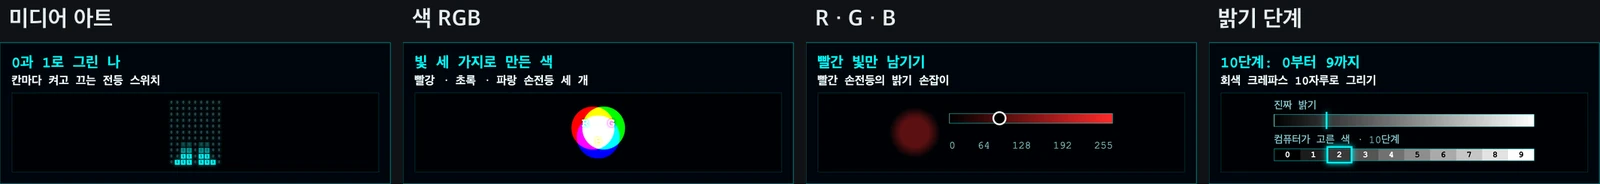
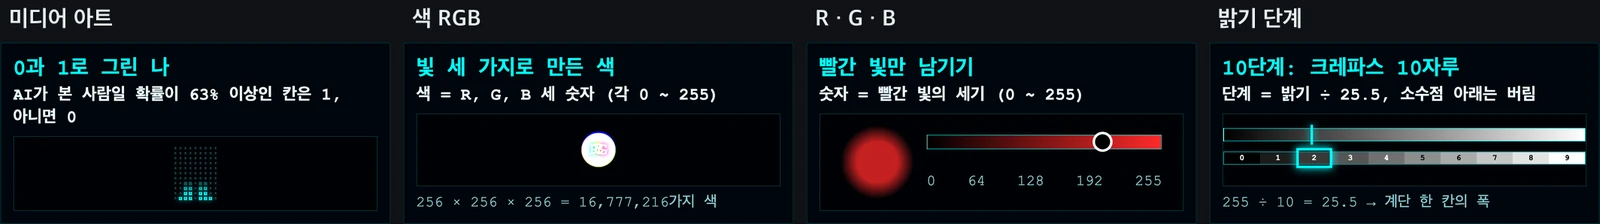
docs: describe the rule card, the marked cell and the calculating magnifier
README, CLAUDE.md, both changelogs and the project site now describe the
narrower side column, the rule card (title, one-line rule, picture), the
marked cell's live calculation under the levers, the magnifier's caption and
weights, and the graphs for brightness and contrast. The screenshots that
show the side column and the magnifier are retaken, and a new animation
shows the lever changing the marked cell's calculation.

diff --git a/site/index.html b/site/index.html
@@ -190,18 +190,18 @@
           <figure class="shot">
             <img
               src="images/layout.webp"
-              alt="화면 구성: 1 작품 화면, 2 비유 카드, 3 버튼과 레버, 4 설명 카드"
-              data-alt-ko="화면 구성: 1 작품 화면, 2 비유 카드, 3 버튼과 레버, 4 설명 카드"
-              data-alt-en="Screen layout: 1 artwork, 2 metaphor card, 3 buttons and levers, 4 explanation card"
+              alt="화면 구성: 1 작품 화면, 2 규칙 카드, 3 버튼과 레버, 4 표시한 칸"
+              data-alt-ko="화면 구성: 1 작품 화면, 2 규칙 카드, 3 버튼과 레버, 4 표시한 칸"
+              data-alt-en="Screen layout: 1 artwork, 2 rule card, 3 buttons and levers, 4 marked cell"
               loading="lazy"
             />
             <figcaption>
               <span data-l="ko"
-                >① 작품 화면 ② 비유 · 애니메이션 ③ 버튼과 레버 (화면 세로 가운데) ④ 설명 · 용어 ·
-                지금 화면</span
+                >① 작품 화면 (화면 높이를 가득) ② 규칙 카드: 이름 · 계산 한 줄 · 그림 ③ 버튼과 레버
+                (화면 세로 가운데) ④ 표시한 칸의 계산</span
               ><span data-l="en"
-                >① Artwork ② Metaphor and animation ③ Buttons and levers (at mid height) ④
-                Explanation, terms and live size</span
+                >① Artwork (full height) ② Rule card: name, one-line rule, picture ③ Buttons and
+                levers (at mid height) ④ The marked cell's calculation</span
               >
             </figcaption>
           </figure>
@@ -454,33 +454,57 @@
               <h3 data-l="en">Magnifier</h3>
               <img
                 src="images/magnifier.webp"
-                alt="화면을 누르고 끌면 따라오는 3배 돋보기"
-                data-alt-ko="화면을 누르고 끌면 따라오는 3배 돋보기"
-                data-alt-en="A 3× lens following the finger across the picture"
+                alt="화면을 누르고 끌면 따라오며 그 칸의 계산을 적는 3배 돋보기"
+                data-alt-ko="화면을 누르고 끌면 따라오며 그 칸의 계산을 적는 3배 돋보기"
+                data-alt-en="A 3× lens following the finger and writing that cell's calculation"
                 loading="lazy"
               />
               <p data-l="ko">
-                작품 화면을 꾹 누르고 있으면 손가락 위에 3배 돋보기가 떠서 작은 숫자도 읽힙니다.
+                작품 화면을 꾹 누르고 있으면 손가락 위에 3배 돋보기가 떠서 작은 숫자도 읽히고, 누른
+                칸의 계산이 옆에 적힙니다.
               </p>
               <p data-l="en">
-                Press and hold the picture and a 3× lens floats above your finger to read tiny
-                numbers.
+                Press and hold the picture: a 3× lens floats above your finger and writes the
+                pressed cell's calculation beside it.
               </p>
             </div>
             <div class="panel">
-              <h3 data-l="ko">설명 카드</h3>
-              <h3 data-l="en">Explanation cards</h3>
+              <h3 data-l="ko">규칙 카드</h3>
+              <h3 data-l="en">Rule cards</h3>
               <img
                 src="images/math-cards.webp"
-                alt="밝기·대비·블러·선명 설명 카드"
-                data-alt-ko="밝기·대비·블러·선명 설명 카드"
-                data-alt-en="Cards for brighten, contrast, blur and sharpen"
+                alt="밝기·대비·블러·선명 규칙 카드"
+                data-alt-ko="밝기·대비·블러·선명 규칙 카드"
+                data-alt-en="Rule cards for brighten, contrast, blur and sharpen"
                 loading="lazy"
               />
-              <p data-l="ko">긴 수식 대신 한 줄 공식과 3×3 숫자 예시로 감을 잡습니다.</p>
-              <p data-l="en">A one-line formula and a 3×3 example instead of long math.</p>
+              <p data-l="ko">
+                계산 한 줄과 그림 하나: 밝기와 대비는 일차함수 그래프, 블러와 선명은 3×3 예시입니다.
+              </p>
+              <p data-l="en">
+                One line of maths and one picture: graphs of linear functions for brighten and
+                contrast, a 3×3 example for blur and sharpen.
+              </p>
             </div>
           </div>
+          <figure class="shot">
+            <img
+              src="images/marked-cell.webp"
+              alt="레버를 움직이면 표시한 칸의 계산과 그래프가 같이 바뀌는 모습"
+              data-alt-ko="레버를 움직이면 표시한 칸의 계산과 그래프가 같이 바뀌는 모습"
+              data-alt-en="Moving the lever changes the marked cell's calculation and the graph"
+              loading="lazy"
+            />
+            <figcaption>
+              <span data-l="ko"
+                >네모 친 칸의 실제 숫자가 규칙에 들어갑니다. 레버를 움직이면 계산이 같이 바뀌고,
+                화면을 누르면 누른 칸으로 옮겨 갑니다.</span
+              ><span data-l="en"
+                >The outlined cell's real numbers go into the rule. Move the lever and the
+                calculation changes; press the picture to move the mark.</span
+              >
+            </figcaption>
+          </figure>
           <figure class="shot">
             <img
               src="images/controls.webp"

diff --git a/README.md b/README.md
@@ -23,14 +23,14 @@
 
 ## 화면 구성
 
-![화면 구성: 1 작품 화면, 2 비유·애니메이션 카드, 3 버튼과 레버, 4 설명 카드](docs/images/readme/layout.webp)
+![화면 구성: 1 작품 화면, 2 규칙 카드, 3 버튼과 레버, 4 표시한 칸](docs/images/readme/layout.webp)
 
 그림의 번호는 아래 목록의 번호와 같습니다.
 
-1. **작품 화면**: 모든 모드가 같은 자리에 카메라 화면 전체를 칸으로 맞춰 그립니다. 누르고 있으면 돋보기가 뜹니다.
-2. **비유 · 애니메이션**: 지금 화면의 원리를 그림 하나로 보여줍니다.
-3. **버튼과 레버**: 모드 버튼, 세부 버튼, 레버 두 개가 화면 세로 정가운데에 모여 있습니다. 모드를 바꿔도 위치는 그대로입니다.
-4. **설명 · 용어 · 지금 화면**: 한 줄 설명, 용어, 지금 화면의 칸 수, 화면이 만들어지는 순서를 보여줍니다.
+1. **작품 화면**: 4:3 카메라 화면이 화면 높이를 가득 채웁니다. 모든 모드가 같은 자리에 그리고, 계산하는 칸 하나에 네모를 칩니다. 누르고 있으면 돋보기가 뜹니다.
+2. **규칙 카드**: 지금 화면의 이름, 계산 규칙 한 줄, 그림 하나를 보여줍니다.
+3. **버튼과 레버**: 모드 버튼, 세부 버튼, 레버 두 개가 화면 세로 가운데에 모여 있습니다. 모드를 바꿔도 위치는 그대로입니다.
+4. **표시한 칸**: 네모 친 칸의 숫자를 규칙에 넣은 계산과 지금 화면의 칸 수를 보여줍니다.
 
 ## 모드
 
@@ -77,9 +77,9 @@
 
 ![같은 칸의 원본 숫자와 계산 결과](docs/images/readme/math-numbers.webp)
 
-설명 카드는 한 줄 공식과 3×3 예시로 계산을 보여줍니다. 예시는 화면과 같은 계산 함수를 쓰고, 레버를 움직이면 같이 바뀝니다.
+규칙 카드는 계산을 한 줄 공식으로 적고 레버 값을 그대로 넣습니다. 밝기와 대비는 칸 하나만 보고 계산하므로 일차함수 그래프(`y = x + 60`, `y = 2(x − 128) + 128`)로, 블러와 선명은 주변 칸까지 보므로 3×3 예시와 무게로 보여줍니다. 그래프와 예시는 화면과 같은 계산 함수를 씁니다.
 
-![밝기 · 대비 · 블러 · 선명 설명 카드](docs/images/readme/math-cards.webp)
+![밝기 · 대비 · 블러 · 선명 규칙 카드](docs/images/readme/math-cards.webp)
 
 ## 레버
 
@@ -94,15 +94,23 @@
 
 ## 돋보기
 
-작품 화면을 누르고 있으면 손가락 위에 3배 돋보기가 떠서 작은 숫자도 읽을 수 있습니다. 누르고 있는 동안 손가락을 따라 움직이고, 떼면 사라집니다.
+작품 화면을 누르고 있으면 손가락 위에 3배 돋보기가 떠서 작은 숫자도 읽을 수 있습니다. 돋보기는 손가락 아래 칸에 네모를 치고, 그 칸의 계산을 돋보기 옆에 적습니다. 블러와 선명에서는 함께 평균 내는 주변 칸과 무게(×1 · ×2 · ×4)도 표시합니다. 누르고 있는 동안 손가락을 따라 움직이고, 떼면 사라집니다. 마지막으로 누른 칸은 표시한 칸으로 남습니다.
 
-![누르고 끌면 돋보기가 따라오고, 떼면 사라지는 모습](docs/images/readme/magnifier.webp)
+![누르고 끌면 돋보기가 따라오며 그 칸의 계산을 적는 모습](docs/images/readme/magnifier.webp)
 
-## 설명 카드
+## 설명
 
-수식 대신 비유와 짧은 애니메이션으로 원리를 보여줍니다. 오래 읽지 않아도 감으로 익힐 수 있게 문장은 한 줄로 줄였습니다.
+여러 나이의 관람객이 짧게 머무는 전시라서, 처음 화면에는 꼭 필요한 것만 두고 수학은 관람객이 손을 대는 만큼 더 보여줍니다.
 
-![미디어 아트 · 색 RGB · R · 밝기 단계 설명 카드](docs/images/readme/cards.webp)
+- **한눈에 · 규칙 카드**: 이름, 계산 규칙 한 줄, 그림 하나만 둡니다. 용어 칩과 긴 문장은 없습니다.
+- **내 숫자로 · 표시한 칸**: 네모 친 칸의 실제 숫자를 규칙에 넣은 계산을 레버 바로 아래에 보여줍니다. 레버를 움직이면 계산이 같이 바뀝니다.
+- **누르면 · 돋보기**: 누른 칸의 계산이 손가락 옆에 뜹니다.
+
+![미디어 아트 · 색 RGB · R · 밝기 단계 규칙 카드](docs/images/readme/cards.webp)
+
+![레버를 움직이면 표시한 칸의 계산과 그래프가 같이 바뀌는 모습](docs/images/readme/marked-cell.webp)
+
+미디어 아트에서는 AI가 칸마다 계산한 사람일 확률이 63% 이상이면 1이 됩니다. 표시한 칸 자리에는 화면에서 1인 칸의 비율이, 돋보기에는 누른 칸의 확률이 나옵니다.
 
 ## 조작
 
@@ -113,7 +121,7 @@
 | 밝기 단계 고르기 | `2단계` / `10단계` / `256단계` | |
 | 계산 고르기 · 풀기 | `밝기` / `대비` / `블러` / `선명` (한 번 더 누르면 원본) | |
 | 칸 크기 · 세기 바꾸기 | 레버 | |
-| 크게 보기 | 작품 화면을 꾹 누르기 | |
+| 크게 보기 · 칸 계산 보기 | 작품 화면을 꾹 누르기 | |
 | 한국어 / English | 버튼 묶음 첫 줄의 `한국어` / `English` | |
 | 종료 | | `Esc` |
 
@@ -131,7 +139,7 @@ npm test
 npm run lint
 ```
 
-- **문구 고치기**: 설명 카드 문구는 [src/renderer/data/modeExplanations.js](src/renderer/data/modeExplanations.js), 모드 · 세부 버튼 · 레버는 [src/renderer/data/modeOptions.js](src/renderer/data/modeOptions.js)에 있습니다.
+- **문구 고치기**: 규칙 카드 문구는 [src/renderer/data/modeExplanations.js](src/renderer/data/modeExplanations.js), 표시한 칸과 돋보기의 계산식은 [src/renderer/core/cellReadout.js](src/renderer/core/cellReadout.js), 모드 · 세부 버튼 · 레버는 [src/renderer/data/modeOptions.js](src/renderer/data/modeOptions.js)에 있습니다.
 - **칸 크기**: 처음 크기는 [src/renderer/config.js](src/renderer/config.js)의 `FONT_SIZE`(`24px`), 레버의 단계는 `CELL_SIZES`입니다.
 - **카메라 해상도**: [src/renderer/core/camera.js](src/renderer/core/camera.js)에서 `640×480`을 요청합니다.
 - **숨은 모드**: 키보드 `5`~`9`는 예전 모드(부산 수학문화관, 픽셀 수치, RGB, 8비트 회색, 4비트 컬러)입니다.
@@ -146,7 +154,8 @@ npm run lint
 | `src/renderer/core/frameLoop.js` | 매 프레임 카메라를 칸으로 나눠 모드별로 그림 |
 | `src/renderer/core/channelOverlay.js` | WebGL로 칸 색과 RGB 레이어를 그림 |
 | `src/renderer/core/imageMath.js` | 수학 처리 계산(밝기 · 대비 · 가우시안 블러 · 선명) |
+| `src/renderer/core/cellReadout.js` | 표시한 칸 하나를 다시 읽어 계산식으로 적음 |
 | `src/renderer/modes/` | 모드별 칸 · 숫자 그리기와 RGB 전환 애니메이션 |
-| `src/renderer/ui/` | 설명 카드, 애니메이션, 레버, 돋보기 |
+| `src/renderer/ui/` | 규칙 카드, 표시한 칸, 그림 · 그래프, 레버, 돋보기 |
 | `src/renderer/data/` | 모드 · 버튼 · 레버 규칙과 설명 문구 |
 | `site/`, `scripts/build-site.js` | 소개 사이트와 패치노트 페이지 |

diff --git a/CLAUDE.md b/CLAUDE.md
@@ -28,16 +28,17 @@ This is an Electron application called "Binary Media Art" that creates real-time
 2. **Multiple Visualization Modes** (touch buttons; keys 1-4, legacy modes on 5-9):
    - `original` (미디어 아트): Every cell is a bit: cells where segmentation found a person are `1` in the camera colour pulled toward cyan (bright ones glow), all other cells are a dim `0`; an empty room is a screen of zeros
    - `rgb` (색 RGB): The camera sampled into numbered pixel cells, drawn as additive WebGL R/G/B layers; each cell shows its 0-255 value for the selected light, or all three stacked values in the full colour once cells are 24px or larger. The mode button opens the full colour, R/G/B buttons split the layers apart (1.8s transition) and a second tap on the selected light returns to the full colour (`data/modeOptions.js`)
-   - `levels` (밝기 단계): The camera sampled into numbered pixel cells quantized to 2, 10 or 256 brightness steps; in 2단계 the black/white threshold (0-255) is set with a lever
-   - `math` (수학 처리): The camera as grey numbered cells with one calculation applied (`core/imageMath.js`): 밝기 adds, 대비 stretches around 128, 블러 is a Gaussian weighted average (3×3/5×5/7×7, Pascal-row weights, 3×3 = 1·2·4 ÷ 16), 선명 is an unsharp mask that adds back the difference from the 3×3 Gaussian average. Tapping the selected calculation again returns to the original numbers; the right lever sets its strength (`MATH_SLIDERS`). Its card shows a one-line formula and a 3×3 before → after example computed with the same functions (#39)
-   - Magnifier (`ui/magnifier.js`, #40): pressing the artwork shows a round lens with a fixed 3× view under the finger; it follows while held and hides on release. The frame loop's `onDrawn` hook lets it copy each frame before the WebGL buffer is presented. Only `#magnifierArea` (the artwork area) takes touches
+   - `levels` (밝기 단계): The camera sampled into numbered pixel cells quantized to 2, 10 or 256 brightness steps (from the same rounded 0-255 grey the math view shows: step = floor(grey × levels ÷ 255)); in 2단계 the black/white threshold (0-255) is set with a lever
+   - `math` (수학 처리): The camera as grey numbered cells with one calculation applied (`core/imageMath.js`): 밝기 adds, 대비 stretches around 128, 블러 is a Gaussian weighted average (3×3/5×5/7×7, Pascal-row weights, 3×3 = 1·2·4 ÷ 16), 선명 is an unsharp mask that adds back the difference from the 3×3 Gaussian average. Tapping the selected calculation again returns to the original numbers; the right lever sets its strength (`MATH_SLIDERS`). Its card writes the calculation as a formula with the lever's value; 밝기 and 대비 draw it as a linear function graph (`y = x + 60`, `y = 2(x − 128) + 128`) with the marked cell as a dot, blur and sharpen keep a 3×3 before → after example labelled 예시. Both use the same functions as the screen (#39)
+   - Magnifier (`ui/magnifier.js`, #40): pressing the artwork shows a round lens with a fixed 3× view under the finger; it follows while held and hides on release. The lens outlines the cell under the finger, a caption on the far side of the lens from the finger writes that cell's calculation, and for blur and sharpen it outlines the averaged neighbours with their 3×3 weights. The frame loop's `onDrawn` hook lets it copy each frame before the WebGL buffer is presented. Only `#magnifierArea` (the artwork area) takes touches
+   - Marked cell (`ui/cellPicker.js`, `ui/cellCard.js`, `core/cellReadout.js`): one cell, outlined on the picture, starts mid-picture and moves to wherever the picture was last pressed. `readCell` reads it back from the frame that was just drawn (`onDrawn(frame)`) with the same buffers and functions, and the card under the controls writes its numbers into the view's rule (`(140 − 128) × 2 + 128 = 152`, `밝기 183 ÷ 25.5 = 7.1 → 7`); 미디어 아트 shows how much of the screen is 1 instead, and its lens caption shows the AI's person probability against the 63% threshold
    - 한국어 / English (`i18n.js`): a two-button switch in the control block's first row. Visible text in the data files is `{ ko, en }` pairs read through `t()`; switching redraws buttons, levers and the card but keeps the mode and lever values. The app starts in Korean; keep English captions short (~11 characters) so they fit the monospaced buttons
    - Pixels everywhere: there is no camera-quality view; cells too small for readable digits (< 7px font) stay plain colour
    - Levers (`ui/modeSliders.js`): a two-slot row under the option buttons. Left: cell size (`CELL_SIZES` in `config.js`, all modes, default 24px; floored at 24px in the combined RGB view so its three numbers always fit, `getCellSizeFloor`). Right: the view's own lever (`getModeSlider`), or a hint that keeps the slot in place
-   - All touch controls sit in one block at exactly mid screen height in the side column; the explanation is split into equal cards above and below it
-   - Every mode draws in the same fixed screen left of the side column (whole camera frame fitted to whole cells); `rgb` and `levels` skip segmentation
+   - All touch controls sit in one block in the middle of the screen height in the side column; the rule card above gets a little more height (1.4 : 1) than the marked-cell card below, and the block keeps one height in every mode
+   - Every mode draws in the same fixed screen left of the side column (whole camera frame fitted to whole cells); `rgb` and `levels` skip segmentation. The side column takes what a 4:3 picture leaves at full height (`--side-column-width`), so the visitor's picture is as large as the screen allows; below 900px of height the controls size with the screen
    - There are no F-key filter controls; touch buttons pick views and the two levers adjust them
-   - The side column's explanation card uses metaphors, a CSS animation and term chips per mode/option (`data/modeExplanations.js`, `ui/explainAnimations.js`)
+   - The rule card above the controls holds a title, the rule as one calculation with the right lever's value written in, one picture and at most one short fact per mode/option (`data/modeExplanations.js`, `ui/explainAnimations.js`, `ui/mathPanel.js`). Keep it to that: the marked-cell card and the magnifier carry the visitor's own numbers
 
 3. **Real-time Processing**: Uses TensorFlow.js BodyPix model for person segmentation with mirrored video display
 

diff --git a/CHANGELOG.md b/CHANGELOG.md
@@ -13,15 +13,19 @@
 - 칸 크기 레버: 모든 모드에서 픽셀 칸을 8~48px로 바꿀 수 있습니다. 처음 크기는 24px입니다.
 - 흑백 경계값 레버: 밝기 단계 2단계에서 0과 1을 가르는 기준(0~255)을 옮길 수 있습니다.
 - 한국어 / English: 버튼 묶음 첫 줄의 전환 버튼으로 모든 글자를 영어로 바꿀 수 있습니다. 보고 있던 모드와 레버 값은 그대로입니다.
-- 돋보기: 작품 화면을 꾹 누르고 있으면 손가락 위에 3배 확대경이 떠서 작은 숫자도 읽을 수 있습니다.
-- 수학 처리: 밝기(더하기) · 대비(곱하기) · 블러(가우시안 무게 평균) · 선명(차이 키우기) 중 하나를 골라 칸마다 숫자가 어떻게 바뀌는지 보여줍니다. 레버로 세기를 바꾸고, 설명 카드는 한 줄 공식과 3×3 예시로 계산을 보여줍니다.
-- 모드마다 비유와 짧은 애니메이션으로 원리를 보여주는 설명 카드를 추가했습니다.
+- 돋보기: 작품 화면을 꾹 누르고 있으면 손가락 위에 3배 확대경이 떠서 작은 숫자도 읽을 수 있습니다. 누른 칸에 네모를 치고 그 칸의 계산을 옆에 적으며, 블러와 선명에서는 함께 평균 내는 주변 칸과 무게도 보여줍니다.
+- 수학 처리: 밝기(더하기) · 대비(곱하기) · 블러(가우시안 무게 평균) · 선명(차이 키우기) 중 하나를 골라 칸마다 숫자가 어떻게 바뀌는지 보여줍니다. 레버로 세기를 바꾸고, 밝기와 대비는 일차함수 그래프(`y = x + 60`)로, 블러와 선명은 3×3 예시로 계산을 보여줍니다.
+- 규칙 카드: 모드마다 이름, 레버 값이 들어간 계산 규칙 한 줄, 그림 하나로 원리를 보여줍니다.
+- 표시한 칸: 작품 화면의 칸 하나에 네모를 치고, 그 칸의 실제 숫자를 규칙에 넣은 계산을 레버 바로 아래에 보여줍니다(`(140 − 128) × 2 + 128 = 152`). 레버를 움직이면 계산이 같이 바뀌고, 화면을 누르면 누른 칸으로 옮겨 갑니다.
+- 미디어 아트: 돋보기로 누른 칸에서 AI가 계산한 사람일 확률(63% 이상이면 1)을, 표시한 칸 자리에서 화면 속 1인 칸의 비율을 보여줍니다.
 
 ### 바뀐 점
 
 - 미디어 아트: 사람이 있는 칸은 1, 없는 칸은 0으로 화면 전체를 채웁니다. 아무도 없으면 화면이 0으로 가득 찹니다.
 - 누르는 버튼을 모두 화면 세로 가운데에 모았습니다.
 - 미디어 아트도 다른 모드와 같은 고정 화면 영역에 그립니다.
+- 작품 화면이 화면 높이를 가득 채우도록 옆 칸을 좁혔습니다. 1920×1080에서 작품 화면이 1320×984로 커졌고, 모드 버튼과 계산 버튼은 두 줄로 놓입니다.
+- 밝기 단계는 화면에 적히는 0~255 밝기 정수로 단계를 나눕니다.
 - F키 필터 패널을 없앴습니다.
 
 ### 고친 점

diff --git a/CHANGELOG.en.md b/CHANGELOG.en.md
@@ -14,15 +14,19 @@ this file is shown in Korean on the site.
 - Cell size lever: every mode can use 8~48px cells. It starts at 24px.
 - Threshold lever: in 2 steps, move the 0~255 point that separates 0 from 1.
 - 한국어 / English: a switch in the first row of the controls changes every word to English, keeping the mode and lever values.
-- Magnifier: press and hold the picture and a 3× lens floats above your finger, so even small numbers are readable.
-- Image Math: pick brighten (add), contrast (multiply), blur (Gaussian weighted average) or sharpen (boost the difference) and see how every number changes. A lever sets the strength, and the card shows a one-line formula with a 3×3 example.
-- Each mode has an explanation card with a metaphor and a short animation.
+- Magnifier: press and hold the picture and a 3× lens floats above your finger, so even small numbers are readable. It outlines the pressed cell and writes its calculation beside the lens; for blur and sharpen it also marks the neighbours that are averaged and their weights.
+- Image Math: pick brighten (add), contrast (multiply), blur (Gaussian weighted average) or sharpen (boost the difference) and see how every number changes. A lever sets the strength; brighten and contrast are drawn as linear function graphs (`y = x + 60`), blur and sharpen as a 3×3 example.
+- Rule card: each mode shows its name, its rule as one calculation with the lever's value, and one picture.
+- Marked cell: one cell of the picture is outlined, and the card right under the levers puts its real numbers into the rule (`(140 − 128) × 2 + 128 = 152`). Moving a lever changes the calculation, and pressing the picture moves the mark to that cell.
+- Media Art: the magnifier shows the AI's chance that the pressed cell is a person (63% or more becomes 1), and the marked-cell card shows how much of the screen is 1.
 
 ### Changed
 
 - Media Art: cells with a person are 1 and every other cell is 0, filling the whole screen. An empty room is a screen of zeros.
 - Every touch control now sits at the vertical middle of the screen.
 - Media Art draws into the same fixed screen as the other modes.
+- The side column is narrower so the picture fills the screen height: 1320×984 at 1920×1080. Mode and calculation buttons sit in two rows.
+- Brightness steps are taken from the whole-number 0~255 brightness written on screen.
 - The F-key filter panel is gone.
 
 ### Fixed
